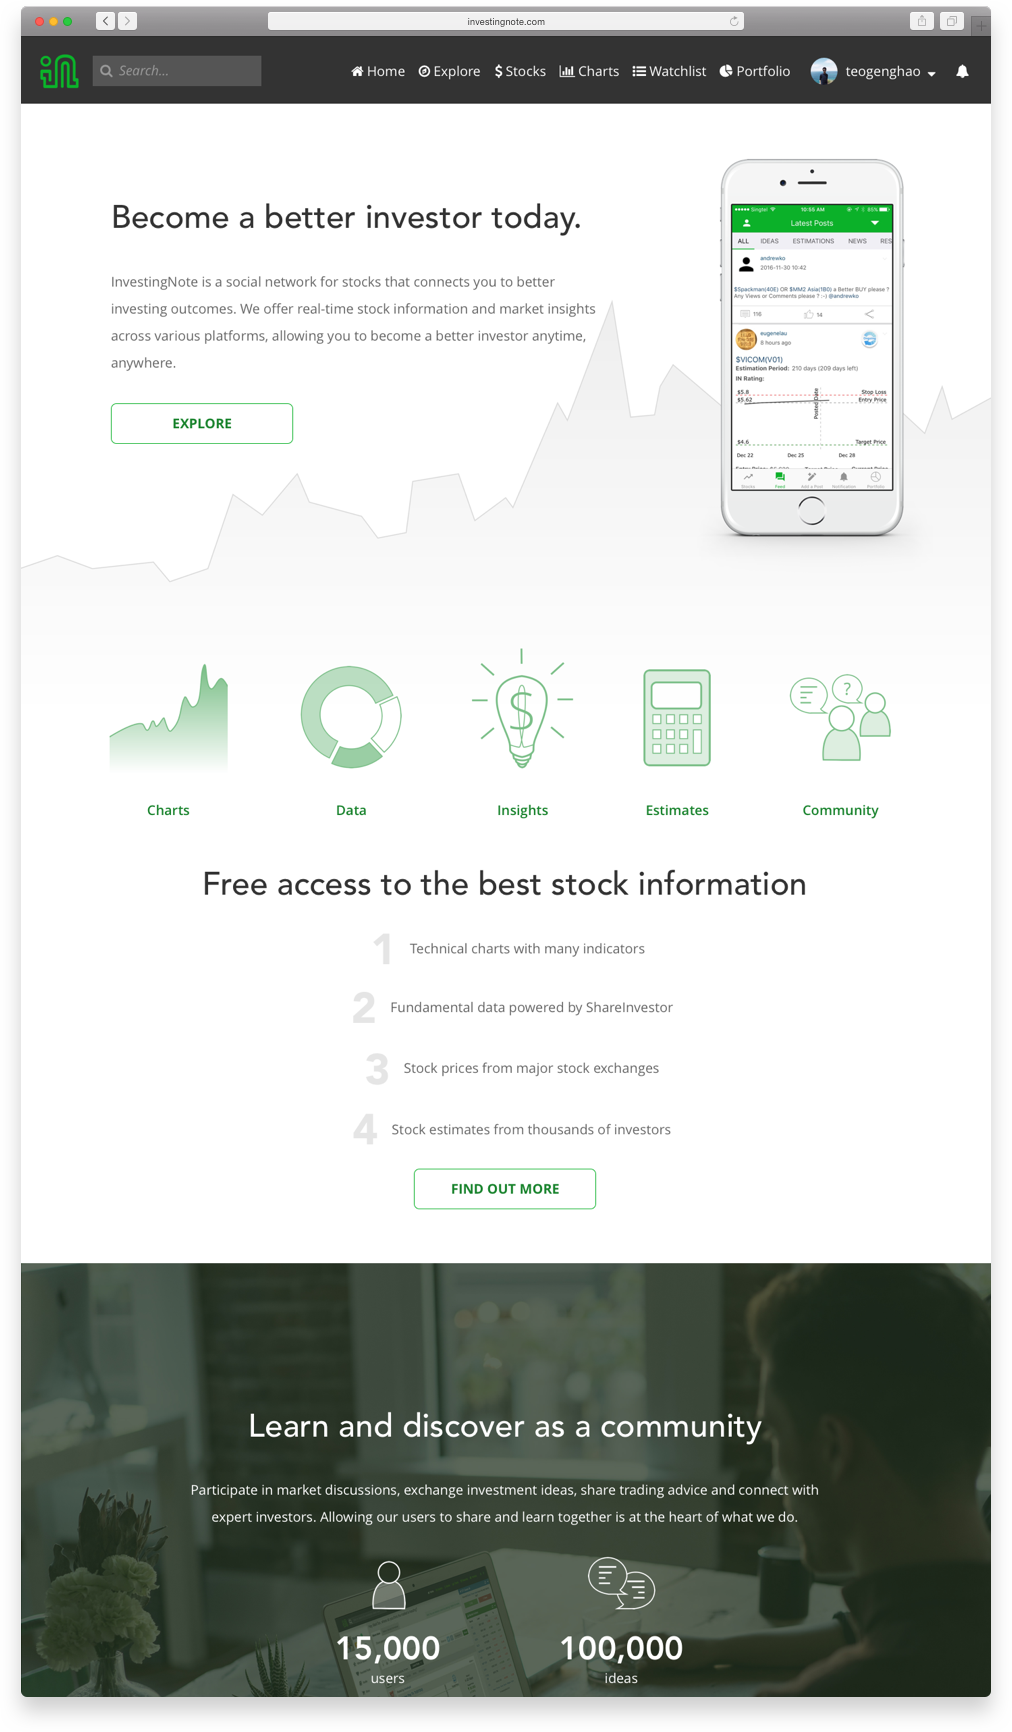
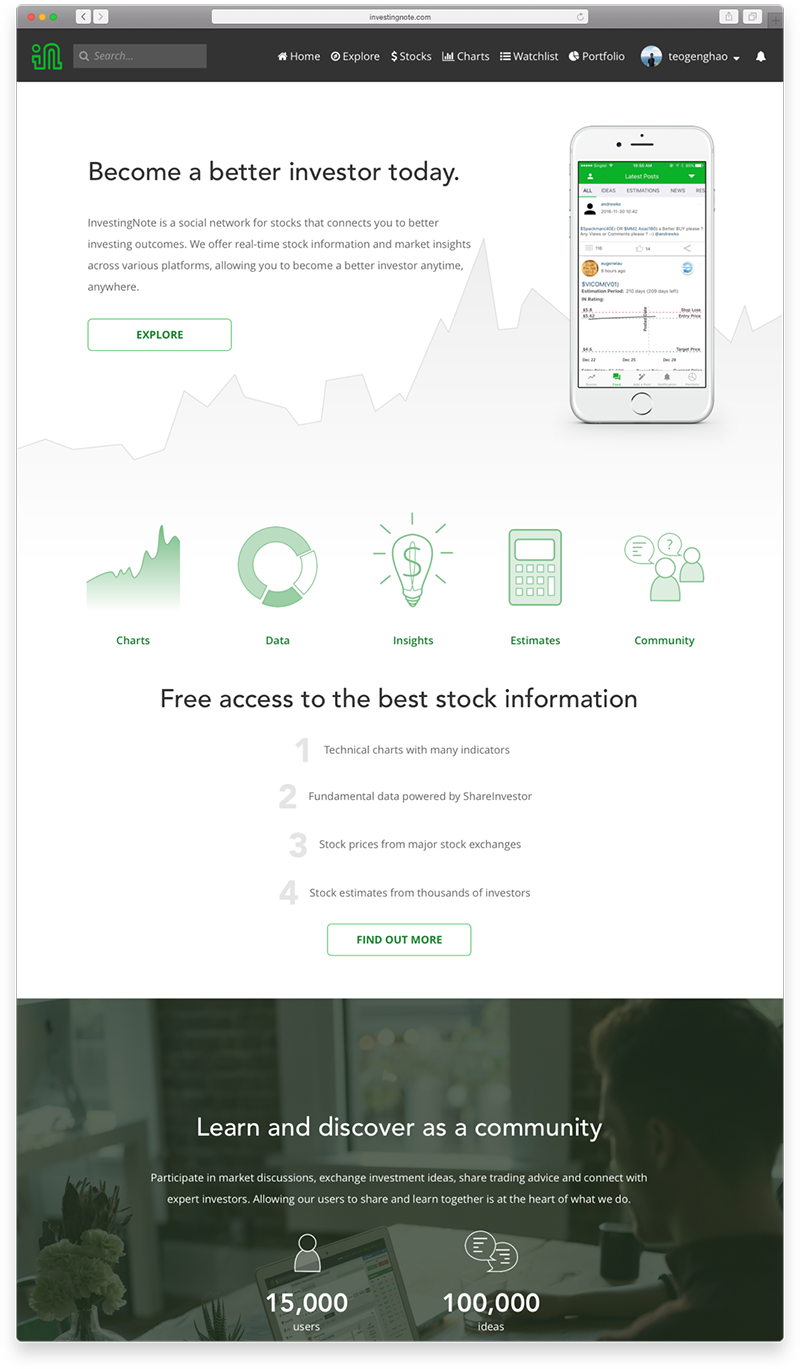
InvestingNote page updates

Changed region(s): [[0.2188, 0.859, 0.25, 0.8897]]

diff --git a/investingnote.html b/investingnote.html
@@ -51,7 +51,7 @@
             <div class="container-fluid investingnote-summary">
                 <div class="row">
                     <div class="col-12 wow fadeIn">
-                        <img src="img/investingnote-hero.png">
+                        <img src="img/investingnote-hero.jpg">
                     </div>
                 </div>
 
@@ -119,10 +119,10 @@
 
                 <div class="row image-block wow fadeIn">
                     <div class="col-12 col-sm-6 mx-auto">
-                        <img src="img/investingnote-about-1.png">
+                        <img src="img/investingnote-about-1.jpg">
                     </div>
                     <div class="col-12 col-sm-6 mx-auto">
-                        <img src="img/investingnote-about-2.png">
+                        <img src="img/investingnote-about-2.jpg">
                     </div>
                 </div>
 
@@ -134,7 +134,7 @@
 
                <div class="row image-block">
                 <div class="col-12 col-sm-6 mx-auto wow fadeIn">
-                    <img src="img/investingnote-explore.png">
+                    <img src="img/investingnote-explore.jpg">
                 </div>
             </div>
 
@@ -152,10 +152,10 @@
 
             <div class="row image-block wow fadeIn">
                 <div class="col-12 col-sm-6 mx-auto">
-                    <img src="img/investingnote-dashboard.png">
+                    <img src="img/investingnote-dashboard.jpg">
                 </div>
                 <div class="col-12 col-sm-6 mx-auto">
-                    <img src="img/investingnote-dashboard-2.png">
+                    <img src="img/investingnote-dashboard-2.jpg">
                 </div>
             </div>
 
@@ -173,7 +173,7 @@
 
             <div class="row image-block wow fadeIn">
                 <div class="col-12 col-sm-6 mx-auto">
-                    <img src="img/investingnote-profile.png">
+                    <img src="img/investingnote-profile.jpg">
                 </div>
             </div>
 
@@ -191,7 +191,7 @@
 
             <div class="row image-block wow fadeIn">
                 <div class="col-12 col-sm-6 mx-auto">
-                    <img src="img/investingnote-stock.png">
+                    <img src="img/investingnote-stock.jpg">
                 </div>
             </div>
 
@@ -216,7 +216,7 @@
 
             <div class="row image-block wow fadeIn">
                 <div class="col-12 col-lg-8 mx-auto">
-                    <img src="img/investingnote-mobile-stocks.png">
+                    <img src="img/investingnote-mobile-stocks.jpg">
                 </div>
             </div>
 
@@ -234,7 +234,7 @@
 
             <div class="row image-block wow fadeIn">
                 <div class="col-12 col-lg-8 mx-auto">
-                    <img src="img/investingnote-mobile-profile.png">
+                    <img src="img/investingnote-mobile-profile.jpg">
                 </div>
             </div>
 
@@ -253,7 +253,7 @@
 
             <div class="row image-block wow fadeIn">
                 <div class="col-12 col-sm-6 mx-auto">
-                    <img src="img/investingnote-mobile-portfolio-and-stock.png">
+                    <img src="img/investingnote-mobile-portfolio-and-stock.jpg">
                 </div>
             </div>
 
